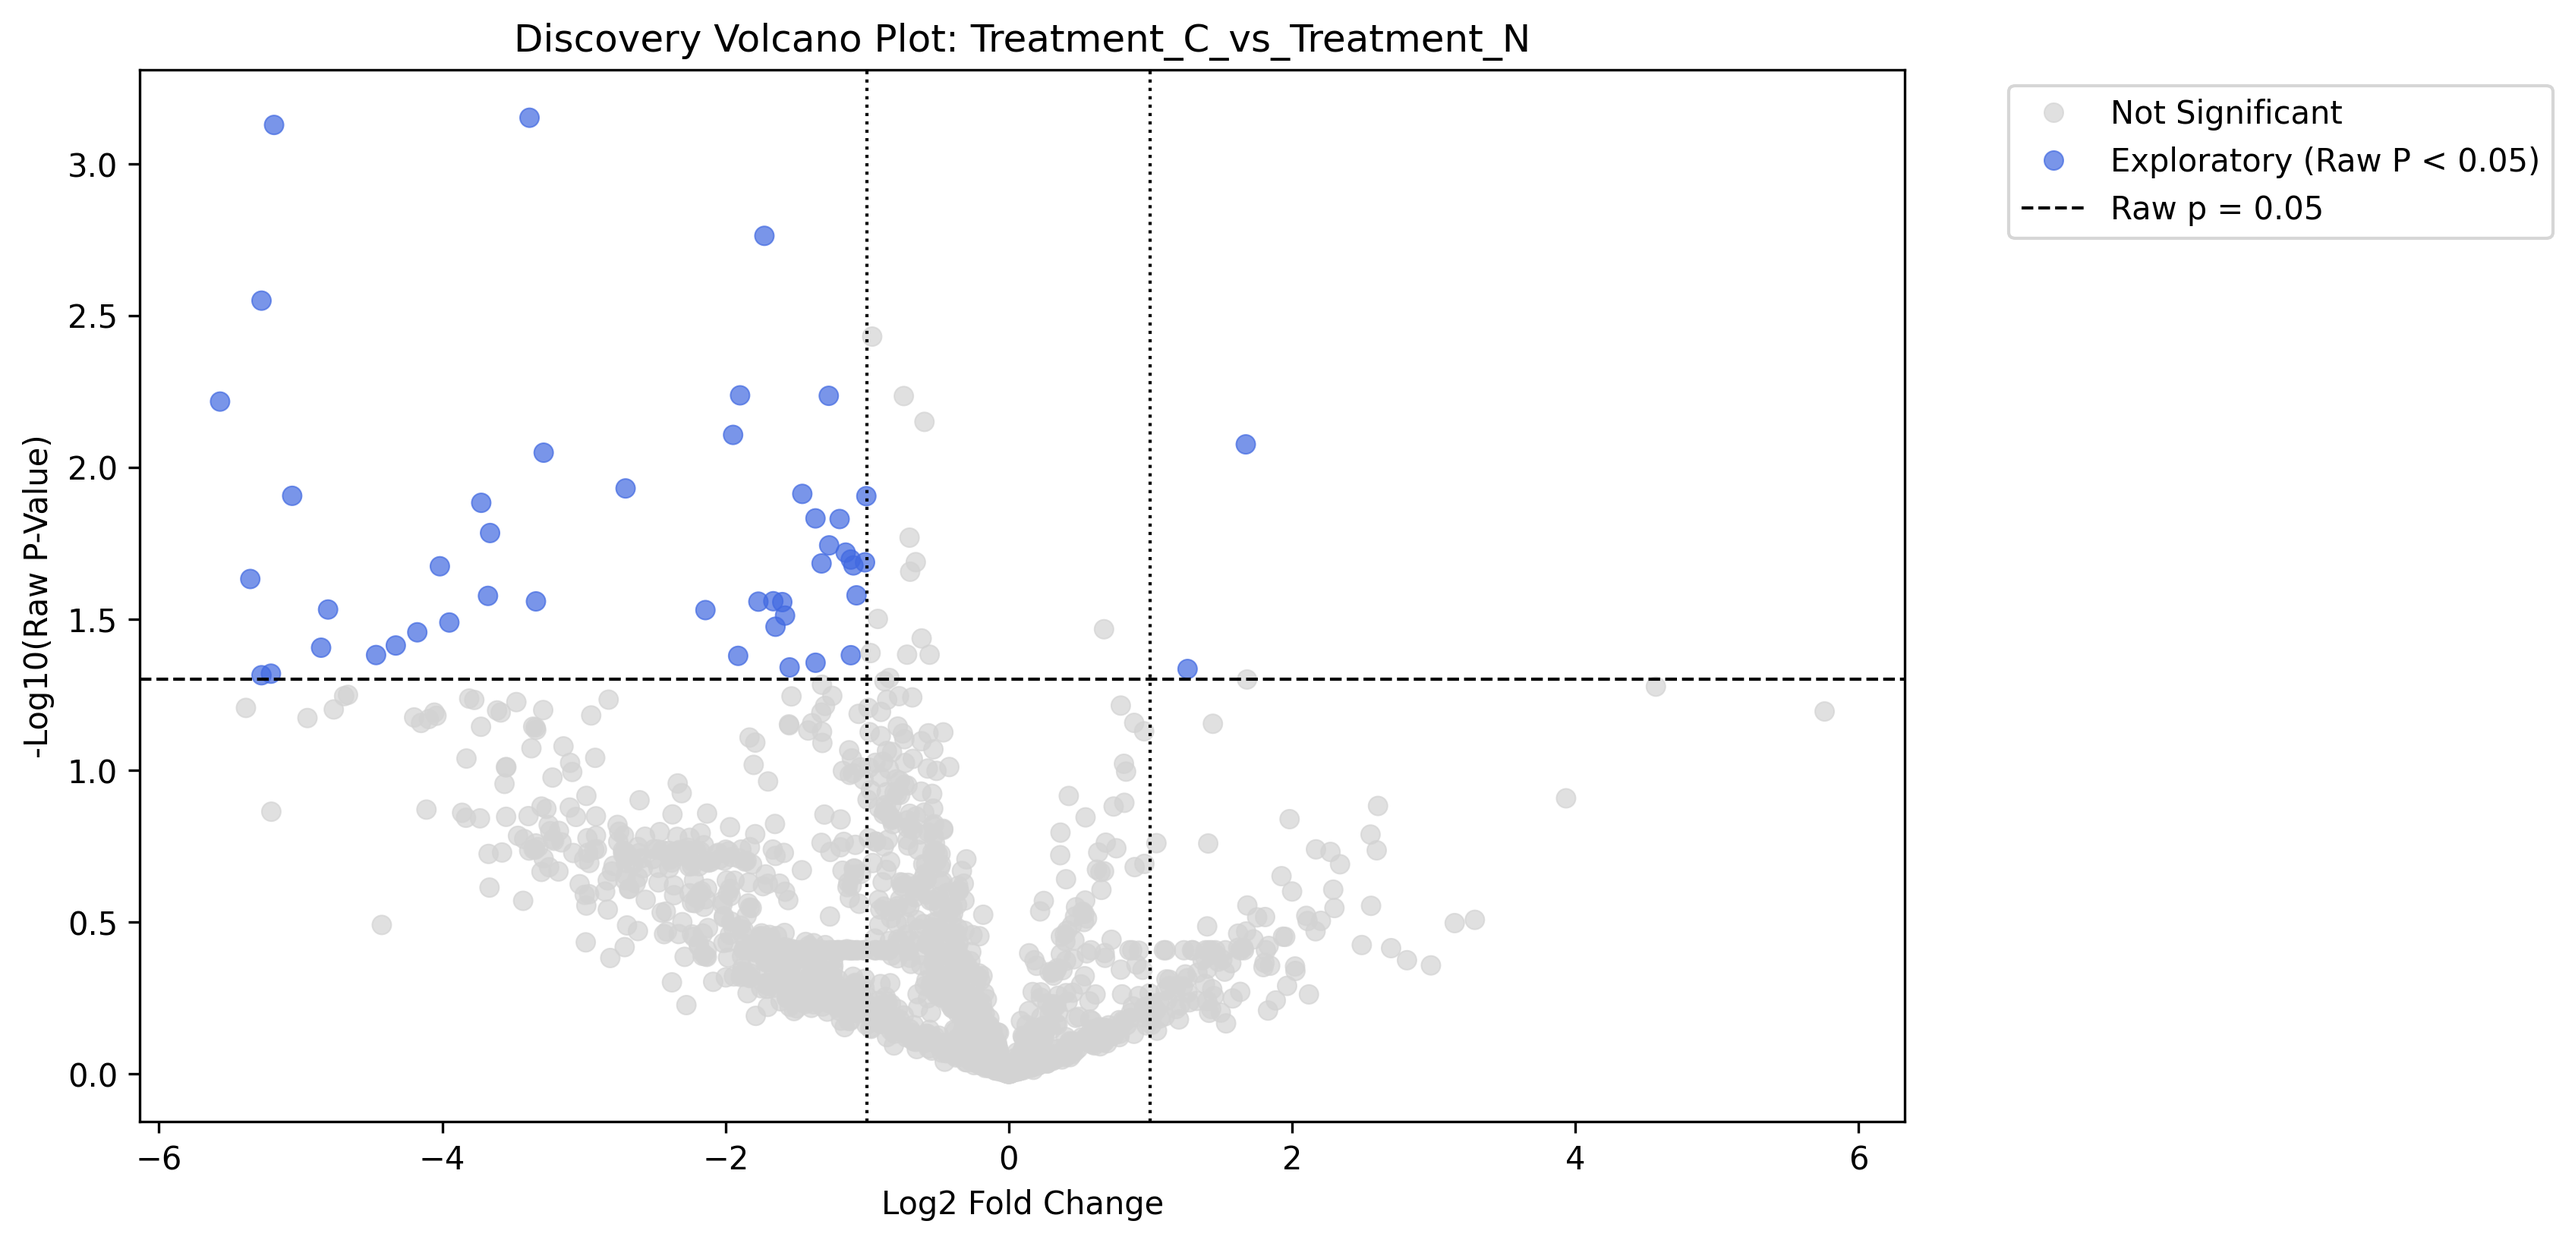
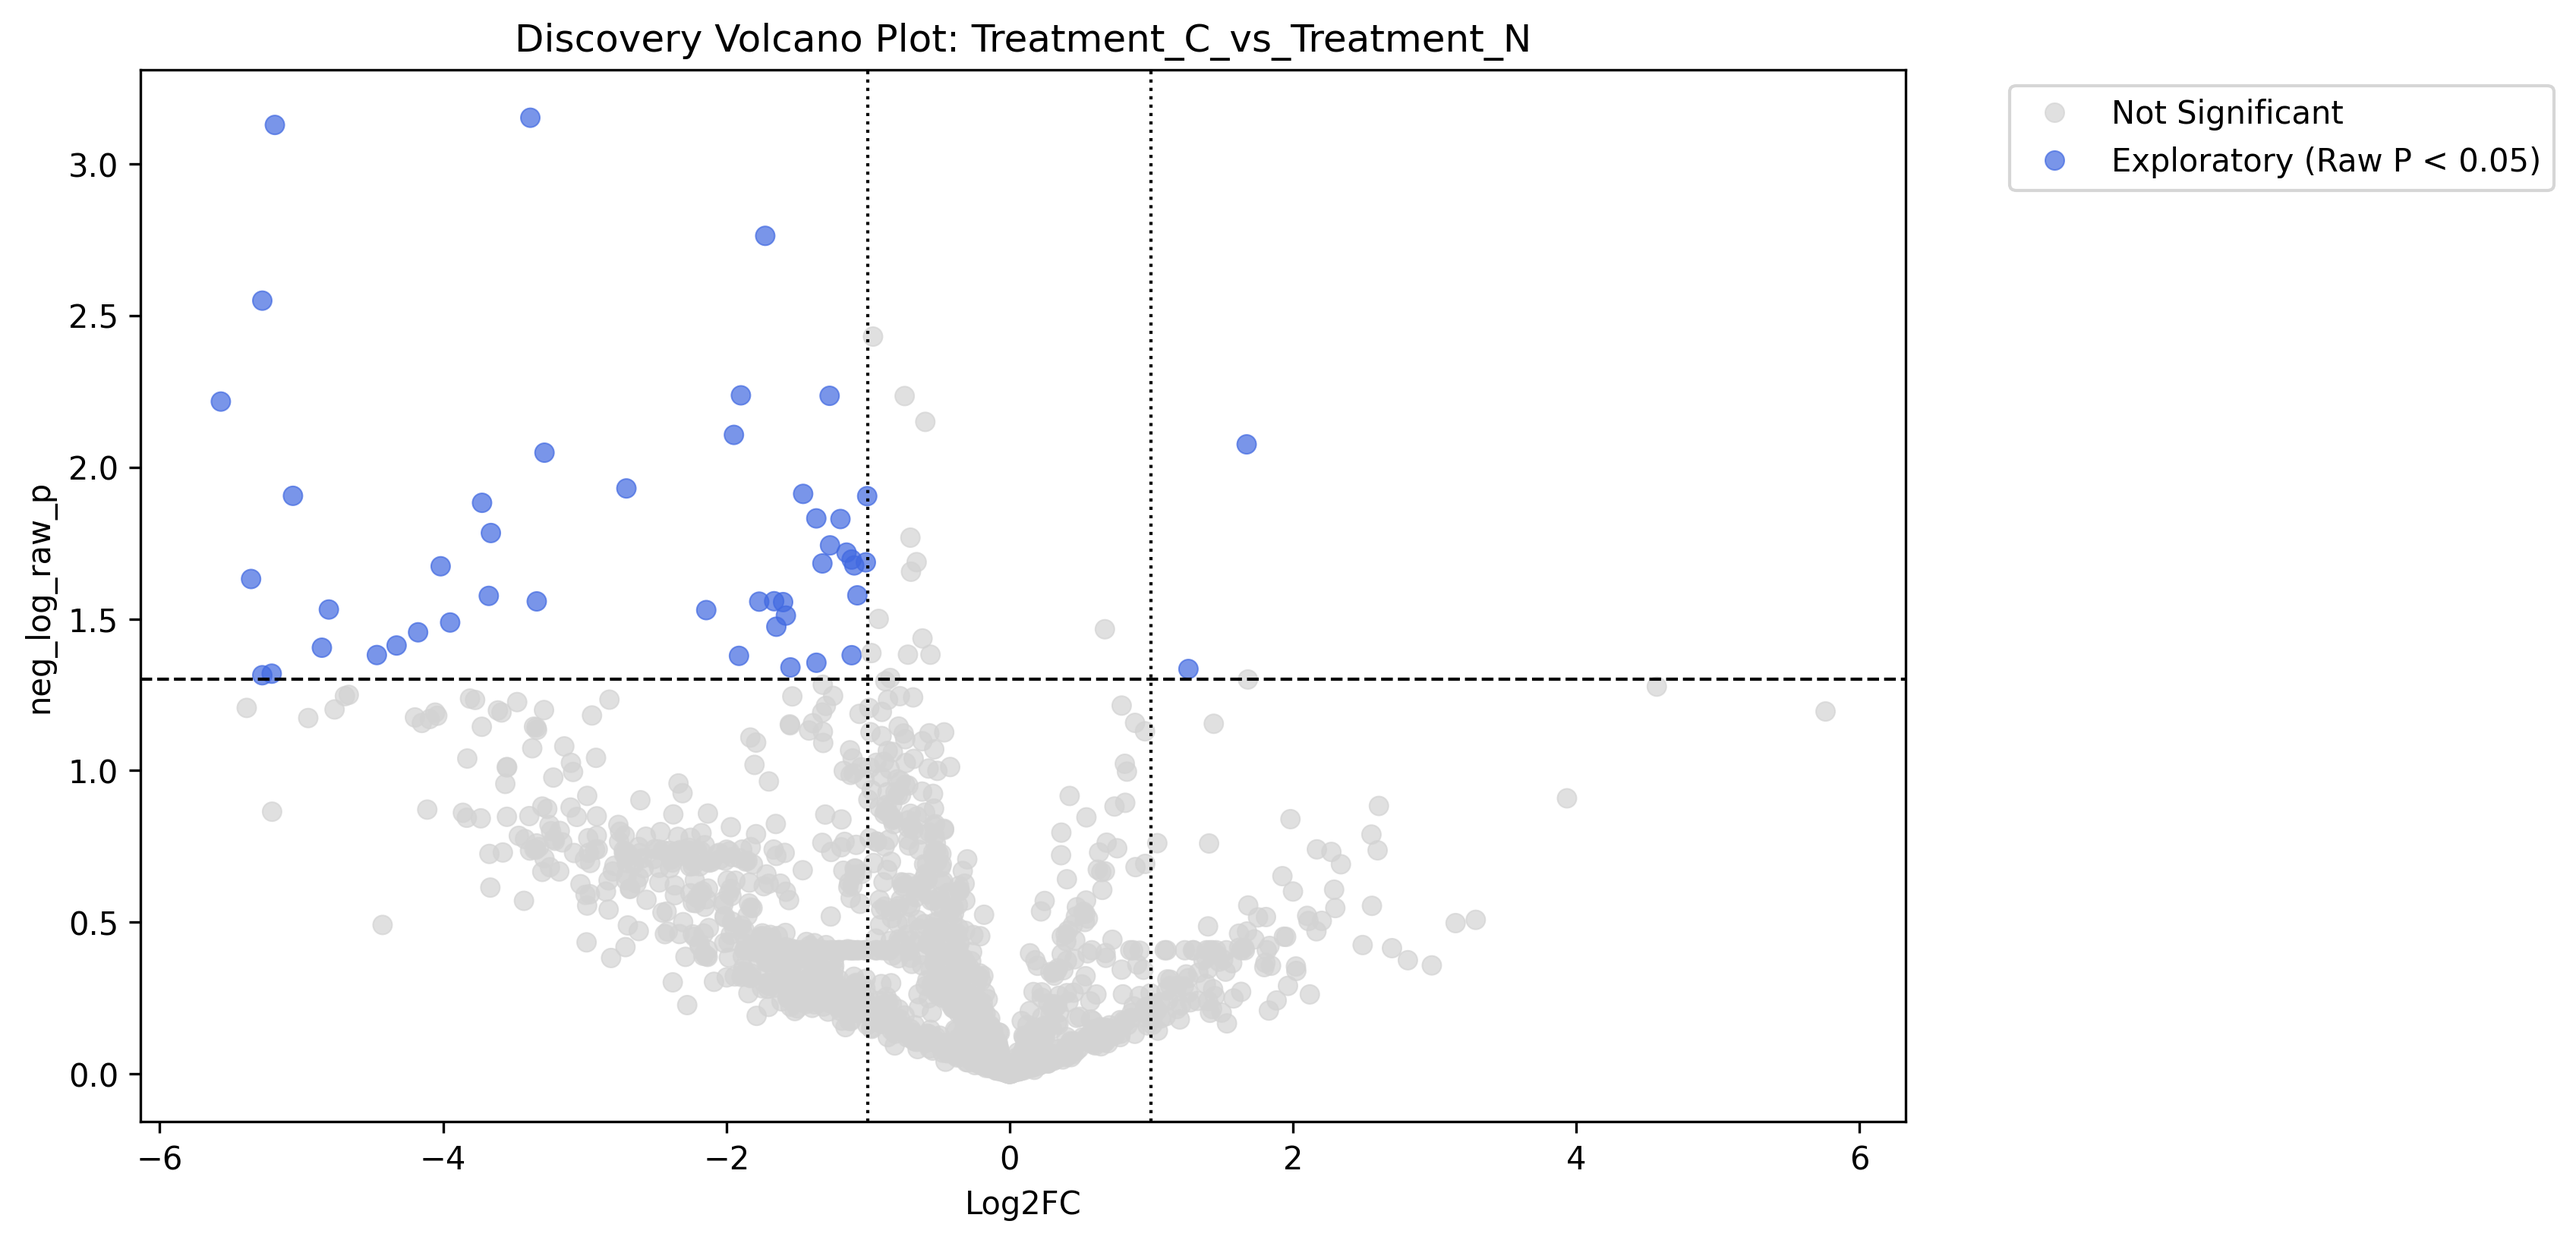
readme finished

Changed region(s): [[0.0, 0.3736, 0.0312, 0.5916], [0.8125, 0.1245, 0.9062, 0.1868], [0.3438, 0.9341, 0.4375, 0.9963]]

diff --git a/proteomics_discovery_pipeline.py b/proteomics_discovery_pipeline.py
@@ -5,21 +5,21 @@ from statsmodels.stats.multitest import multipletests
 import matplotlib.pyplot as plt
 import seaborn as sns
 import os
+import warnings
 
 class ProteomicsDiscoveryPipeline:
     def __init__(self, file_path, config):
         print(f"Loading data from {file_path}...")
+        # Use sep='\t' because your file is actually Tab-Separated
         self.df = pd.read_csv(file_path, sep='\t')
         self.config = config
         self.results = {}
 
     def clean_and_format(self):
         print("Cleaning data (removing Decoys)...")
-        # 1. Remove ONLY the fake Decoy sequences. 
         decoy_mask = self.df['PG.ProteinGroups'].str.contains('Decoy', na=False, case=False)
         self.df = self.df[~decoy_mask].copy()
 
-        # 2. Map config substrings to actual column names
         self.group_cols = {}
         for logical_name, substrings in self.config['group_mapping'].items():
             matched_cols = []
@@ -29,38 +29,30 @@ class ProteomicsDiscoveryPipeline:
                     matched_cols.append(match[0])
             self.group_cols[logical_name] = matched_cols
             
-            # Force numeric types
             for col in matched_cols:
                 self.df[col] = pd.to_numeric(self.df[col], errors='coerce')
 
-def impute_and_normalize(self):
+    def impute_and_normalize(self):
         print("\n" + "="*50)
         print(" PHASE 1: DATA PRE-PROCESSING")
         print("="*50)
         print(f"[*] Normalizing and Imputing missing values...")
         
         all_quant_cols = [col for cols in self.group_cols.values() for col in cols]
-        
-        # Median Centering
         sample_medians = self.df[all_quant_cols].median()
         global_median = sample_medians.median()
         
         for col in all_quant_cols:
             self.df[col] = self.df[col] * (global_median / sample_medians[col])
 
-        # Aggressive Imputation
         self.df[all_quant_cols] = self.df[all_quant_cols].fillna(0.1)
         self.df[all_quant_cols] = np.log2(self.df[all_quant_cols] + 1)
-        
         print(f"[OK] Normalization complete. Base-line floor set to 0.1.")
 
     def run_statistics(self):
         print("\n" + "="*50)
         print(" PHASE 2: STATISTICAL TIERING")
         print("="*50)
-        
-        # Silence the "catastrophic cancellation" warning so it doesn't clutter the view
-        import warnings
         warnings.filterwarnings('ignore', category=RuntimeWarning)
 
         for test_group, control_group in self.config['comparisons']:
@@ -72,8 +64,7 @@ def impute_and_normalize(self):
             cols_ctrl = self.group_cols[control_group]
 
             comp_df = self.df.copy()
-            p_values_raw = []
-            log2_fcs = []
+            p_values_raw, log2_fcs = [], []
 
             for index, row in comp_df.iterrows():
                 val_test = row[cols_test].values.astype(float)
@@ -91,11 +82,9 @@ def impute_and_normalize(self):
             comp_df['Raw_P_Value'] = p_values_raw
             comp_df = comp_df.dropna(subset=['Raw_P_Value', 'Log2FC'])
 
-            # FDR
-            reject, pvals_corrected, _, _ = multipletests(comp_df['Raw_P_Value'], alpha=self.config['p_value_threshold'], method='fdr_bh')
+            _, pvals_corrected, _, _ = multipletests(comp_df['Raw_P_Value'], alpha=self.config['p_value_threshold'], method='fdr_bh')
             comp_df['FDR_Adjusted_P'] = pvals_corrected
             
-            # Tiering
             pass_raw = (comp_df['Raw_P_Value'] < self.config['p_value_threshold']) & (comp_df['Log2FC'].abs() > self.config['log2fc_threshold'])
             pass_fdr = (comp_df['FDR_Adjusted_P'] < self.config['p_value_threshold']) & (comp_df['Log2FC'].abs() > self.config['log2fc_threshold'])
             
@@ -108,89 +97,53 @@ def impute_and_normalize(self):
 
             self.results[f"{test_group}_vs_{control_group}"] = comp_df
             
-            # THE ORGANIZED OUTPUT TABLE
             print(f"  Tier 1 (High Confidence):   {pass_fdr.sum():>4} proteins")
             print(f"  Tier 2 (Exploratory):       {(pass_raw & ~pass_fdr).sum():>4} proteins")
             print(f"  [√] Comparison Successful")
 
+    def export_and_plot(self):
         print("\n" + "="*50)
         print(" PHASE 3: EXPORTING VISUALS")
         print("="*50)
-        
-    def export_and_plot(self):
         if not os.path.exists("Output"):
             os.makedirs("Output")
 
         for comp_name, df_res in self.results.items():
-            # 1. Export CSV
             output_file = f"Output/{comp_name}_Results.csv"
             export_cols = ['PG.ProteinGroups', 'PG.Genes', 'Log2FC', 'Raw_P_Value', 'FDR_Adjusted_P', 'Passed_Raw_Threshold', 'Passed_FDR_Threshold', 'Significance_Tier']
             df_res[export_cols].to_csv(output_file, index=False)
             
-            # 2. Multi-Tier Volcano Plot
             plt.figure(figsize=(10, 6))
             df_res['neg_log_raw_p'] = -np.log10(df_res['Raw_P_Value'])
-            
-            palette = {
-                'High Confidence (FDR < 0.05)': 'red',
-                'Exploratory (Raw P < 0.05)': 'royalblue',
-                'Not Significant': 'lightgrey'
-            }
+            palette = {'High Confidence (FDR < 0.05)': 'red', 'Exploratory (Raw P < 0.05)': 'royalblue', 'Not Significant': 'lightgrey'}
 
-            sns.scatterplot(
-                data=df_res, x='Log2FC', y='neg_log_raw_p',
-                hue='Significance_Tier', palette=palette,
-                alpha=0.7, edgecolor=None
-            )
-
-            # Draw threshold lines
-            plt.axhline(-np.log10(self.config['p_value_threshold']), color='black', linestyle='--', linewidth=1, label='Raw p = 0.05')
+            sns.scatterplot(data=df_res, x='Log2FC', y='neg_log_raw_p', hue='Significance_Tier', palette=palette, alpha=0.7, edgecolor=None)
+            plt.axhline(-np.log10(self.config['p_value_threshold']), color='black', linestyle='--', linewidth=1)
             plt.axvline(self.config['log2fc_threshold'], color='black', linestyle=':', linewidth=1)
             plt.axvline(-self.config['log2fc_threshold'], color='black', linestyle=':', linewidth=1)
-
             plt.title(f'Discovery Volcano Plot: {comp_name}')
-            plt.xlabel('Log2 Fold Change')
-            plt.ylabel('-Log10(Raw P-Value)')
-            
-            # Move legend outside the plot
             plt.legend(bbox_to_anchor=(1.05, 1), loc='upper left')
-            
-            plot_file = f"Output/{comp_name}_Volcano.png"
-            plt.savefig(plot_file, dpi=300, bbox_inches='tight')
+            plt.savefig(f"Output/{comp_name}_Volcano.png", dpi=300, bbox_inches='tight')
             plt.close()
+        print("[OK] All plots saved to 'Output' folder.\n")
 
-
-# ==========================================
-# CONFIGURATION BLOCK (Abstracted for any experiment)
-# ==========================================
 if __name__ == "__main__":
-    
     experiment_config = {
-        # Notice U2oS is completely ignored here. Only the mapped groups are processed.
-        # You can name the keys whatever you want (e.g., 'Treatment_1', 'Baseline').
         'group_mapping': {
             'Treatment_C': ['HEX_C2', 'HEX_C3', 'HEX_C4', 'HEX_C5'],
             'Treatment_N': ['HEX_N2', 'HEX_N3', 'HEX_N4', 'HEX_N5'],
             'Baseline_Control':  ['HEX_NES2', 'HEX_NES3', 'HEX_NES4', 'HEX_NES5']
         },
-        
-        # Define the exact comparisons you want. 
-        'comparisons': [
-            ('Treatment_C', 'Baseline_Control'),  # C vs Control
-            ('Treatment_N', 'Baseline_Control'),  # N vs Control
-            ('Treatment_C', 'Treatment_N')        # C vs N
-        ],
-        
-        # Statistical Cutoffs
+        'comparisons': [('Treatment_C', 'Baseline_Control'), ('Treatment_N', 'Baseline_Control'), ('Treatment_C', 'Treatment_N')],
         'p_value_threshold': 0.05,    
         'log2fc_threshold': 1.0       
     }
 
-    # Run the Pipeline
-    pipeline = ProteomicsDiscoveryPipeline('20260313_093105_Omar_AKAP11_ServiceAward_DIA_TT_20250701_Report_pivot for Bella (1).csv', experiment_config)
+    # UPDATE FILE NAME HERE
+    data_file = '20260313_093105_Omar_AKAP11_ServiceAward_DIA_TT_20250701_Report_pivot for Bella (1).csv'
+    
+    pipeline = ProteomicsDiscoveryPipeline(data_file, experiment_config)
     pipeline.clean_and_format()
     pipeline.impute_and_normalize()
     pipeline.run_statistics()
     pipeline.export_and_plot()
-    
-    print("Analysis Complete! Check the 'Output' folder.")

diff --git a/README.md b/README.md
@@ -1,1 +1,50 @@
 # Omar-Lab-Project
+**Version 1.0 **
+
+This tool is designed to automate the statistical analysis of Mass Spec (DIA) data. It handles the "dirty work" of cleaning data, fixing missing values, and generating plots.
+
+---
+
+
+## Quick Start Guide (No Coding Required)
+
+### 1. Setup the Data
+* Save your proteomics report as a **.csv** file.
+* Make sure your file has these columns: `PG.ProteinGroups`, `PG.Genes`, and your sample columns (ending in `.PG.Quantity`).
+* Place the file inside the `Omar-Lab-Project` folder.
+
+### 2. Configure the Experiment
+Open `proteomics_discovery_pipeline.py` and scroll to the bottom. Update the **Experiment Config** block to match your current run:
+```python
+experiment_config = {
+    'group_mapping': {
+        'Treatment_Name': ['Sample_ID_1', 'Sample_ID_2'], 
+        'Control_Name':   ['Control_ID_1', 'Control_ID_2']
+    },
+    'p_value_threshold': 0.05,
+    'log2fc_threshold': 1.0
+}
+
+### 3. Run the Analysis
+Open your terminal (WSL/Ubuntu) and type these two lines:
+
+Bash
+source venv/bin/activate
+python3 proteomics_discovery_pipeline.py
+
+### 4.  Understanding the Output
+After the program finishes, look in the new /Output folder:
+The Results Table (.csv)
+
+High Confidence: Hits that passed the strict FDR (False Discovery Rate) correction. 
+
+Use these for main figures.Exploratory: Hits that passed the raw p-value threshold but not FDR. 
+
+Use these for hypothesis generation and "rescuing" lower-abundance proteins.
+
+The Volcano Plot (.png)
+
+A visual map of your data:
+🔴 Red Dots: High Confidence hits ($P < 0.05$, $Fold Change > 2$).
+🔵 Blue Dots: Exploratory hits ($P < 0.05$).
+🔘 Grey Dots: Non-significant background.
